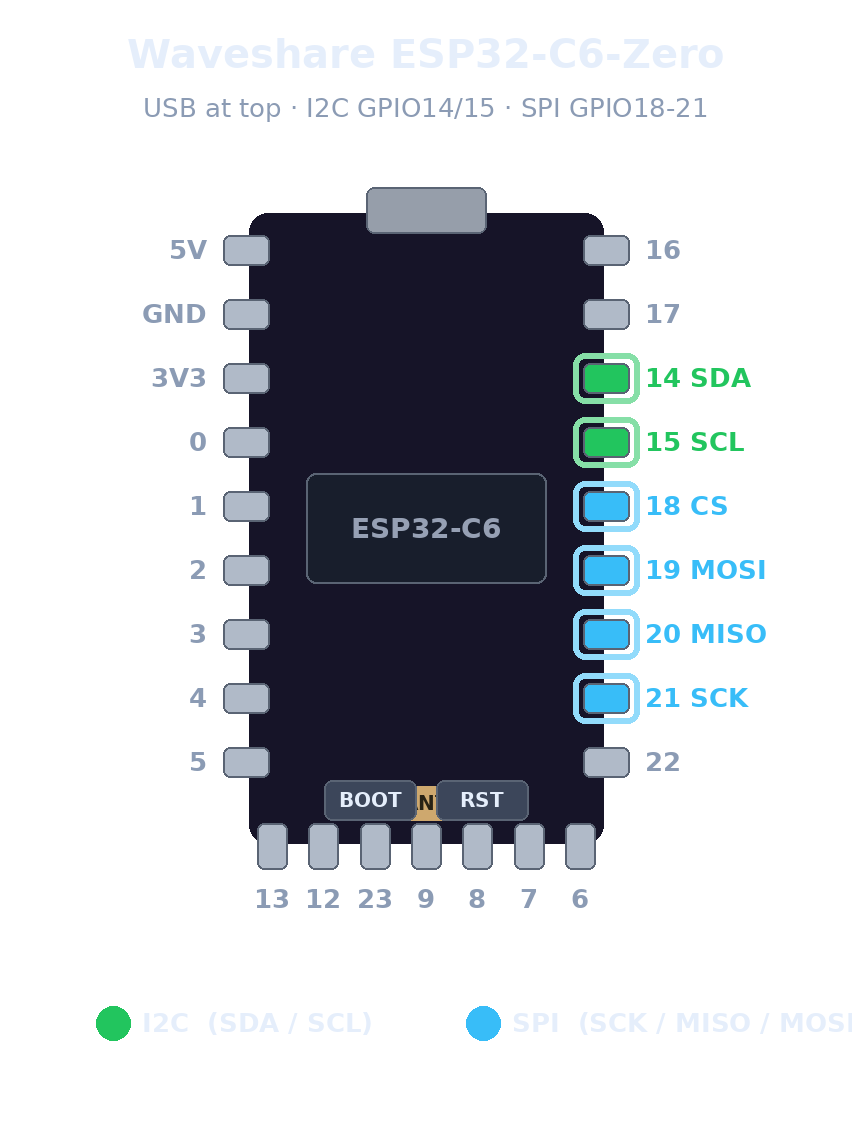
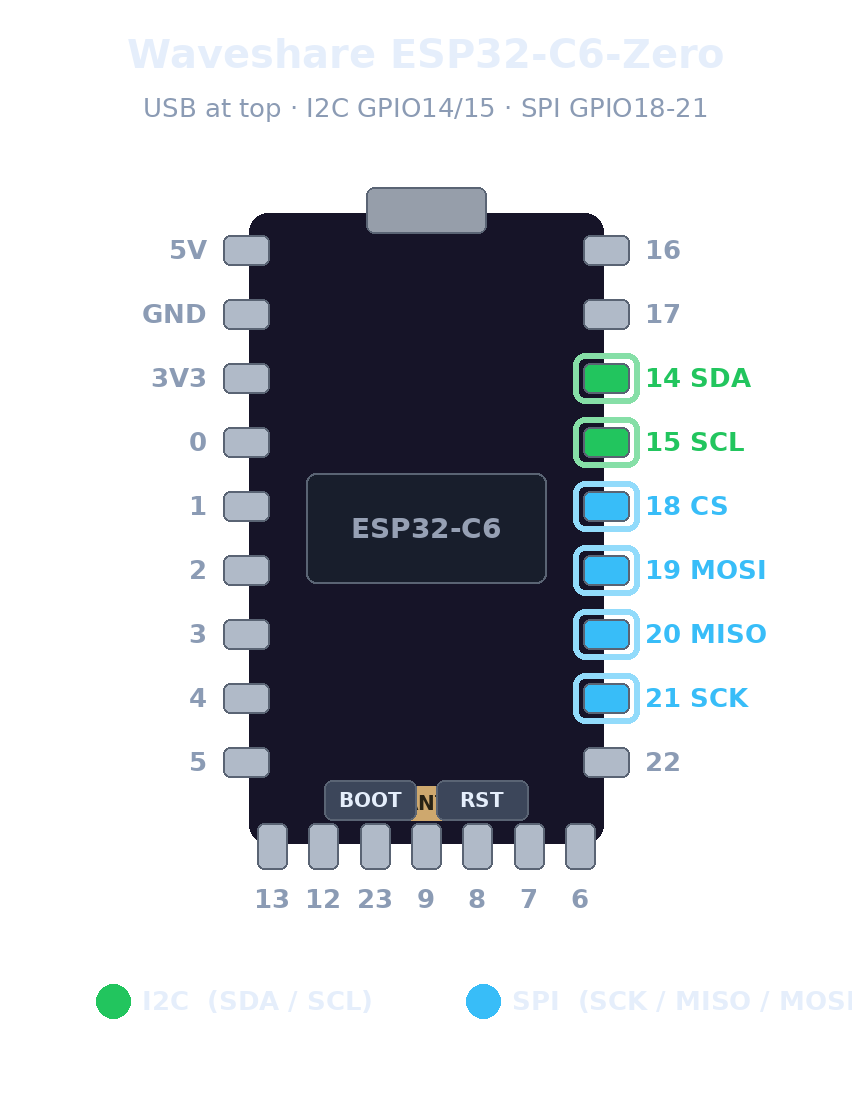
Diagrams: smaller bottom-pad labels (19px) for tighter boards
RP2040-Zero / ESP32-C6-Zero bottom pins render number + role in a smaller
font so the dense bottom edge reads clearly; spacing, label room and the
overlap self-check adjusted to match.

diff --git a/tools/gen_board_diagrams.py b/tools/gen_board_diagrams.py
@@ -224,7 +224,7 @@ def draw_diagram(bd):
 
     # Bottom pads draw stacked labels BELOW the board edge (number, then role);
     # reserve room so they never touch the legend.
-    bot_label_room = 110 if bottom else 0
+    bot_label_room = 88 if bottom else 0
 
     W = LABEL_MARGIN * 2 + board_w + PAD_W * 2 + 60
     H = HEADER_H + board_h + PAD_H * 2 + FOOTER_H + bot_label_room + \
@@ -237,6 +237,7 @@ def draw_diagram(bd):
     f_sub = load_font(26, bold=False)
     f_label = load_font(26)
     f_tag = load_font(24)
+    f_bot = load_font(19)          # small text for tight bottom pads
     f_chip = load_font(28)
     f_btn = load_font(20)
     f_note = load_font(22, bold=False)
@@ -331,9 +332,9 @@ def draw_diagram(bd):
             # (bottom pads sit close together; a combined line would overlap).
             tag_txt = (I2C_TAGS if role == "i2c" else SPI_TAGS)[tag]
             if side == "bottom":
-                d.text((cx, r[3] + 26), label, font=f_tag, fill=col,
+                d.text((cx, r[3] + 21), label, font=f_bot, fill=col,
                        anchor="mm")
-                d.text((cx, r[3] + 54), tag_txt, font=f_tag, fill=col,
+                d.text((cx, r[3] + 41), tag_txt, font=f_bot, fill=col,
                        anchor="mm")
             elif side == "left":
                 d.text((tx, ty), label + " " + tag_txt, font=f_label,
@@ -391,9 +392,9 @@ def self_check(bd, img, pads, geom):
                   f"(got rgba{r,g,b,a} role={got_role}, want {want})")
             ok = False
     if geom["has_bottom"]:
-        # stacked bottom labels: number centered at by1+26, role at by1+54,
-        # each ~24px tall -> ink bottom ≈ by1+66; keep 10px clear of legend
-        label_bottom = geom["by1"] + 66
+        # small stacked labels: number at by1+21, role at by1+41 (~19px font)
+        # -> ink bottom ≈ by1+51; keep 10px clear of legend
+        label_bottom = geom["by1"] + 51
         if geom["legend_y"] < label_bottom + 10:
             print(f"  !! {bd['key']}: bottom labels (to y={label_bottom}) "
                   f"collide with legend (y={geom['legend_y']})")
@@ -403,8 +404,8 @@ def self_check(bd, img, pads, geom):
         if n_bot >= 2:
             spacing = geom["board_w"] / n_bot
             widest = max(len(l) for l in bd["bottom"])
-            # ~14px per char at 24px bold font + padding
-            text_w = widest * 14 + 8
+            # ~11px per char at 19px bold font + padding
+            text_w = widest * 11 + 8
             if text_w > spacing:
                 print(f"  !! {bd['key']}: bottom labels {text_w:.0f}px "
                       f"wider than pad spacing {spacing:.0f}px — overlap")
